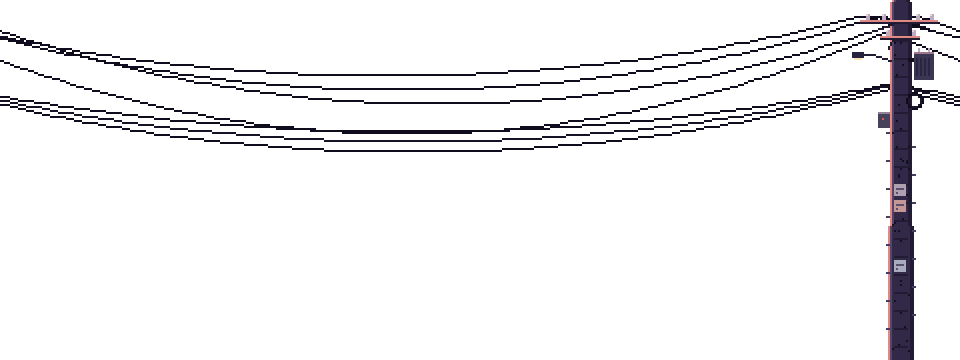
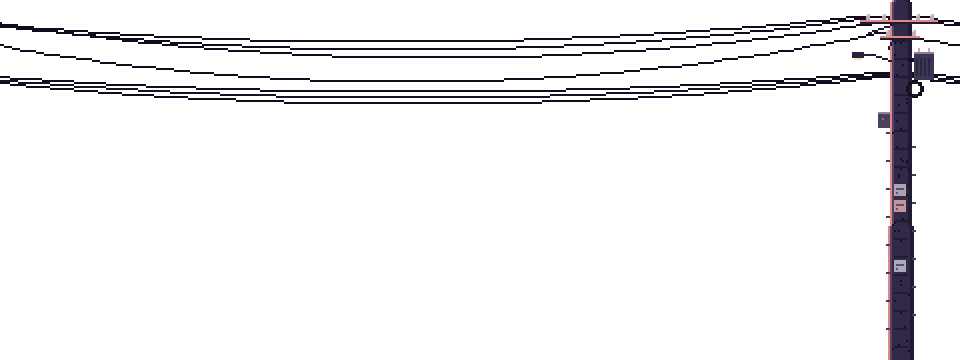
Hang the pole's wires higher
Less sag on the power lines and the telecom bundle (the bundle and its
coil also sit a little higher on the pole), so the wires stay above the
tree line instead of crossing the train and the hero.

Claude-Session: https://claude.ai/code/session_011NAKRUA9btL4iodwTEM3Dh

Changed region(s): [[0.0, 0.0306, 1.0, 0.4278], [0.9375, 0.0306, 1.0, 0.1528]]

diff --git a/tools/compose_sunset_scene.py b/tools/compose_sunset_scene.py
@@ -610,9 +610,9 @@ def build_foreground(block=2):
         for off in (0, w):
             d.line([(p[0] + off, p[1]) for p in pts], fill=colour, width=width)
     for k, (dx, y0) in enumerate(((-17, 8), (-9, 8), (8, 8), (-7, 16))):
-        sag_line(px + dx, y0, 30 + 7 * k)
+        sag_line(px + dx, y0, 13 + 4 * k)
     for k in range(3):                    # telecom bundle
-        sag_line(px - 4, 42 + k, 24 + 4 * k, colour=(24, 18, 38) if k % 2 else wire)
+        sag_line(px - 4, 36 + k, 10 + 2 * k, colour=(24, 18, 38) if k % 2 else wire)
     # --- tapered concrete pole
     for y in range(h):
         half = int(round(4.5 + 1.6 * y / h))
@@ -650,8 +650,8 @@ def build_foreground(block=2):
     d.rectangle((px - 24, 26, px - 19, 28), fill=(40, 34, 60))
     d.line([(px - 23, 29), (px - 20, 29)], fill=(255, 226, 180))
     # --- coiled cable loop and junction box
-    d.ellipse((px + 3, 46, px + 11, 54), outline=wire)
-    d.ellipse((px + 4, 47, px + 10, 53), outline=(28, 22, 42))
+    d.ellipse((px + 3, 40, px + 11, 48), outline=wire)
+    d.ellipse((px + 4, 41, px + 10, 47), outline=(28, 22, 42))
     d.rectangle((px - 11, 56, px - 6, 63), fill=(70, 66, 92))
     d.line([(px - 11, 56), (px - 6, 56)], fill=(150, 130, 150))
     d.point((px - 9, 59), fill=(220, 90, 80))
